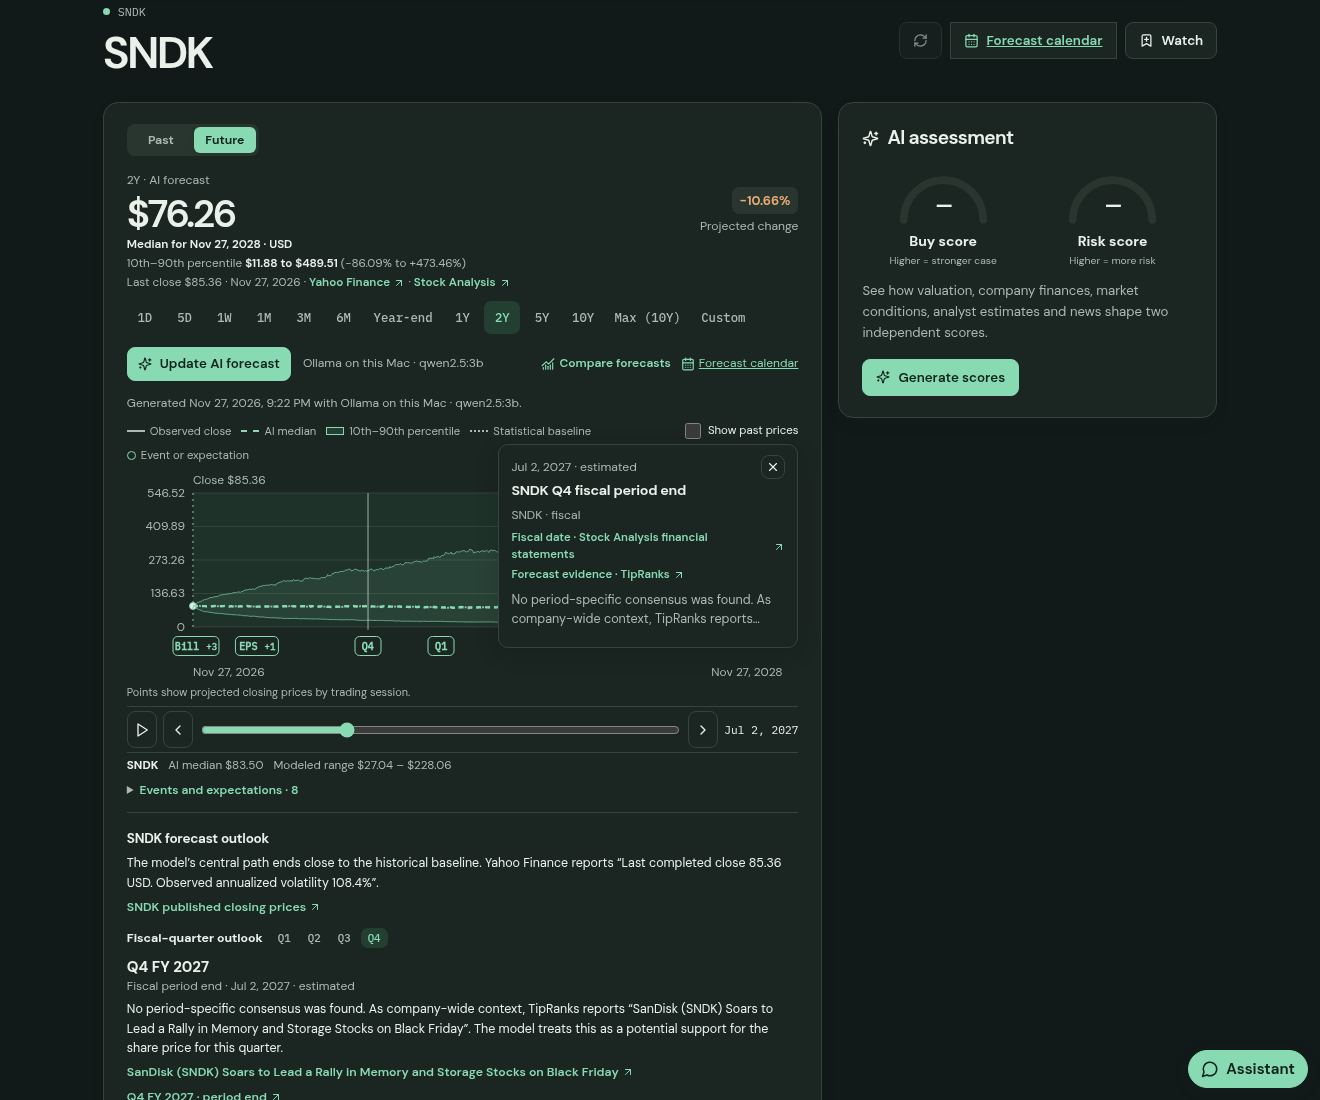
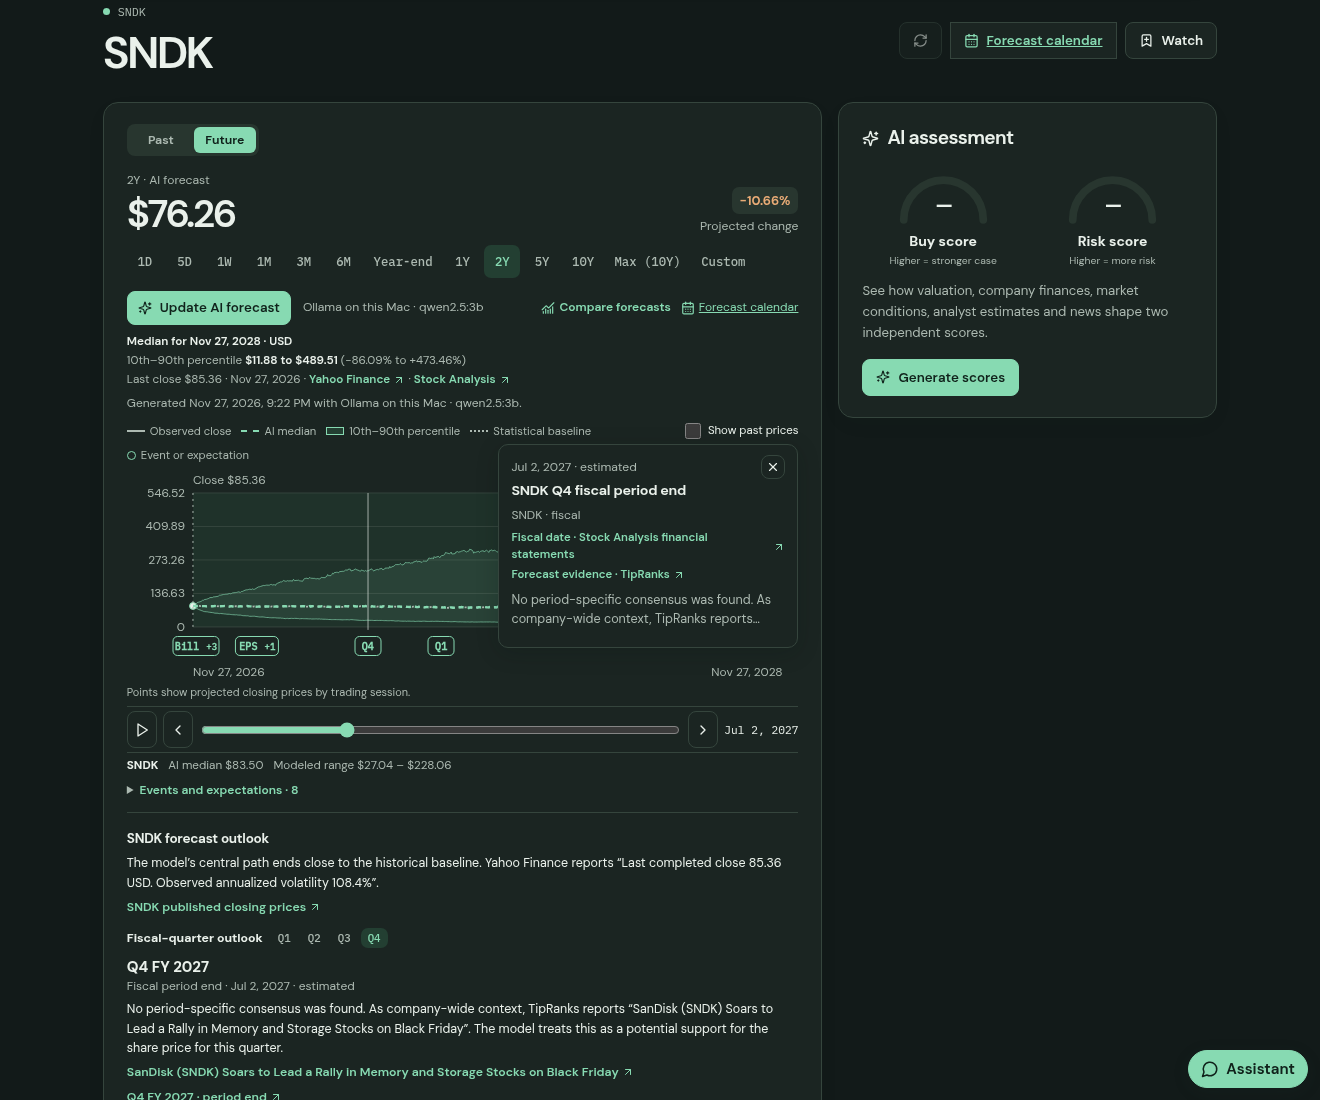
Keep forecast controls in place while price data arrives

Changed region(s): [[0.0932, 0.2164, 0.5902, 0.3709], [0.528, 0.2164, 0.5591, 0.2473], [0.4659, 0.2164, 0.497, 0.2473]]

diff --git a/frontend/src/ResearchFuture.tsx b/frontend/src/ResearchFuture.tsx
@@ -392,6 +392,41 @@ function ForecastResult({
           </div>
         )}
       </div>
+      {controls}
+      <div className="future-toolbar">
+        <div className="future-generate">
+          <button
+            className="btn primary"
+            onClick={generate}
+            disabled={busy || !connection?.configured || (loading && !saved)}
+          >
+            <Sparkles size={14} />
+            {busy
+              ? 'Generating AI forecast…'
+              : saved
+                ? 'Update AI forecast'
+                : 'Generate AI forecast'}
+          </button>
+          {connection?.configured ? (
+            <small>
+              {providerName(connection.provider)} · {connection.model}
+            </small>
+          ) : (
+            <button className="text-btn" onClick={settings}>
+              Set up a forecast model
+            </button>
+          )}
+        </div>
+        <ForecastComparison
+          primary={symbol}
+          extras={extras}
+          selection={selection}
+          change={changeExtras}
+          ready={!!connection?.configured}
+          baselines={projections.data?.series || []}
+          remember={remember}
+        />
+      </div>
       {point && line && anchor && (
         <div className="future-estimate" aria-label="Projection values">
           <strong>
@@ -432,41 +467,6 @@ function ForecastResult({
           </span>
         </div>
       )}
-      {controls}
-      <div className="future-toolbar">
-        <div className="future-generate">
-          <button
-            className="btn primary"
-            onClick={generate}
-            disabled={busy || !connection?.configured || (loading && !saved)}
-          >
-            <Sparkles size={14} />
-            {busy
-              ? 'Generating AI forecast…'
-              : saved
-                ? 'Update AI forecast'
-                : 'Generate AI forecast'}
-          </button>
-          {connection?.configured ? (
-            <small>
-              {providerName(connection.provider)} · {connection.model}
-            </small>
-          ) : (
-            <button className="text-btn" onClick={settings}>
-              Set up a forecast model
-            </button>
-          )}
-        </div>
-        <ForecastComparison
-          primary={symbol}
-          extras={extras}
-          selection={selection}
-          change={changeExtras}
-          ready={!!connection?.configured}
-          baselines={projections.data?.series || []}
-          remember={remember}
-        />
-      </div>
       {connection?.generation_detail && !connection.verified && (
         <p className="future-status">
           {connection.generation_detail}{' '}

diff --git a/frontend/e2e/research-future.spec.ts b/frontend/e2e/research-future.spec.ts
@@ -551,3 +551,55 @@ test('one-session forecasts fill the plot between the observed anchor and the es
   await expect(plot.locator('[data-observed-anchor]')).toBeVisible()
   expect((await geometry()).smallestAxisValue).toBe(0)
 })
+
+for (const width of [390, 1440]) {
+  test(
+    'Compare forecasts stays under the pointer when prices arrive at ' + width + 'px',
+    async ({ page, request }) => {
+      test.skip(process.env.STOCKREPLAY_LIVE_TESTS === '1')
+      await connect(request)
+      let releaseProjection!: () => void
+      const gate = new Promise<void>((resolve) => {
+        releaseProjection = resolve
+      })
+      const initialProjection = (url: string) => {
+        const { pathname, searchParams } = new URL(url)
+        return (
+          pathname === '/api/desk/projections' &&
+          searchParams.get('symbols') === 'AMD' &&
+          searchParams.get('horizon') === '1mo'
+        )
+      }
+      await page.route('**/api/desk/projections?*', async (route) => {
+        if (initialProjection(route.request().url())) await gate
+        await route.continue()
+      })
+      await page.setViewportSize({ width, height: 960 })
+      await page.goto('/#/research/AMD?view=future&range=1mo')
+      const card = page.getByRole('region', { name: 'Price forecast', exact: true })
+      const compare = card.getByRole('button', { name: 'Compare forecasts', exact: true })
+      await compare.scrollIntoViewIfNeeded()
+      const before = (await compare.boundingBox())!
+      const x = before.x + before.width / 2,
+        y = before.y + before.height / 2
+      await page.mouse.move(x, y)
+      await page.mouse.down()
+      try {
+        releaseProjection()
+        await expect(card.locator('[data-forecast-end]')).toBeVisible()
+        // A pointer release must still land on the same control after the quote arrives.
+        const after = (await compare.boundingBox())!
+        expect(y, 'Compare forecasts moved below the held pointer').toBeGreaterThanOrEqual(after.y)
+        expect(y, 'Compare forecasts moved above the held pointer').toBeLessThanOrEqual(
+          after.y + after.height,
+        )
+        expect(x).toBeGreaterThanOrEqual(after.x)
+        expect(x).toBeLessThanOrEqual(after.x + after.width)
+      } finally {
+        await page.mouse.up()
+      }
+      await expect(compare).toHaveAttribute('aria-expanded', 'true')
+      await expect(card.getByRole('textbox', { name: 'Comparison ticker' })).toBeVisible()
+    },
+  )
+}
